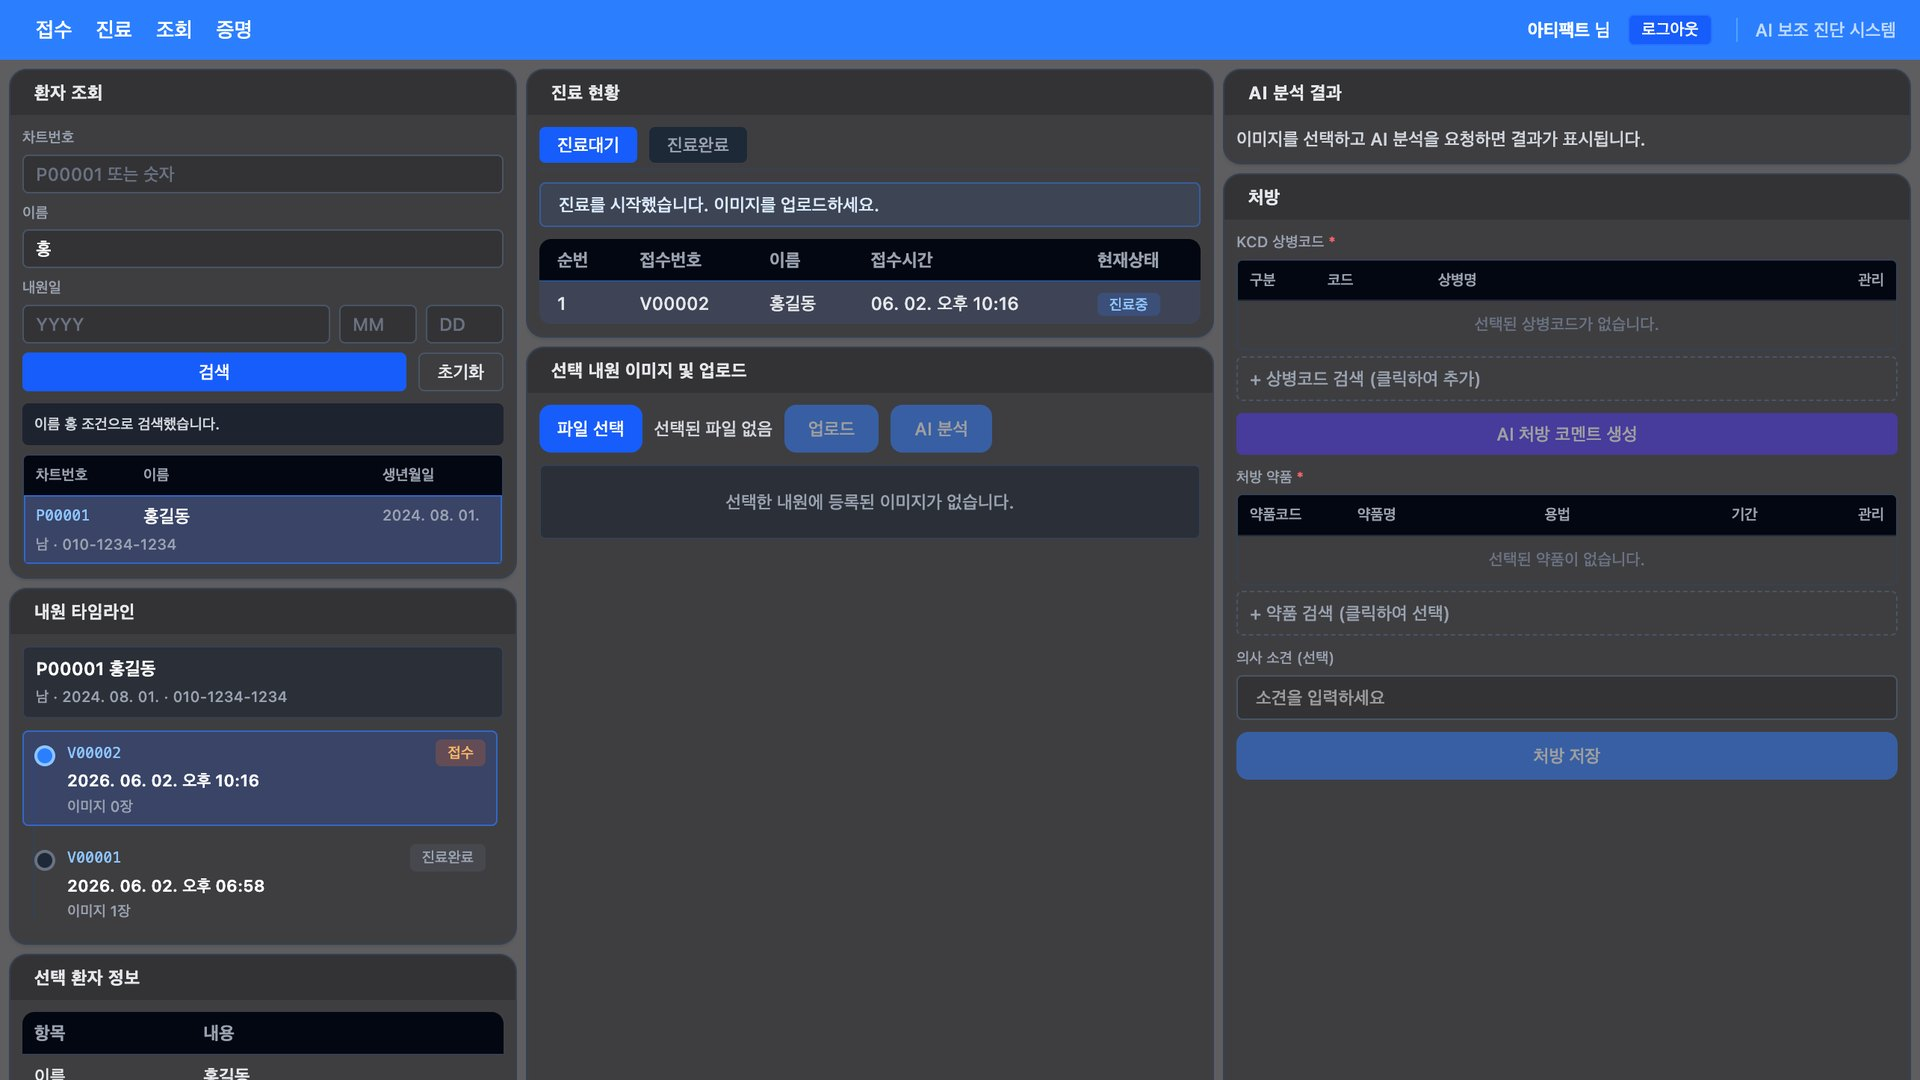
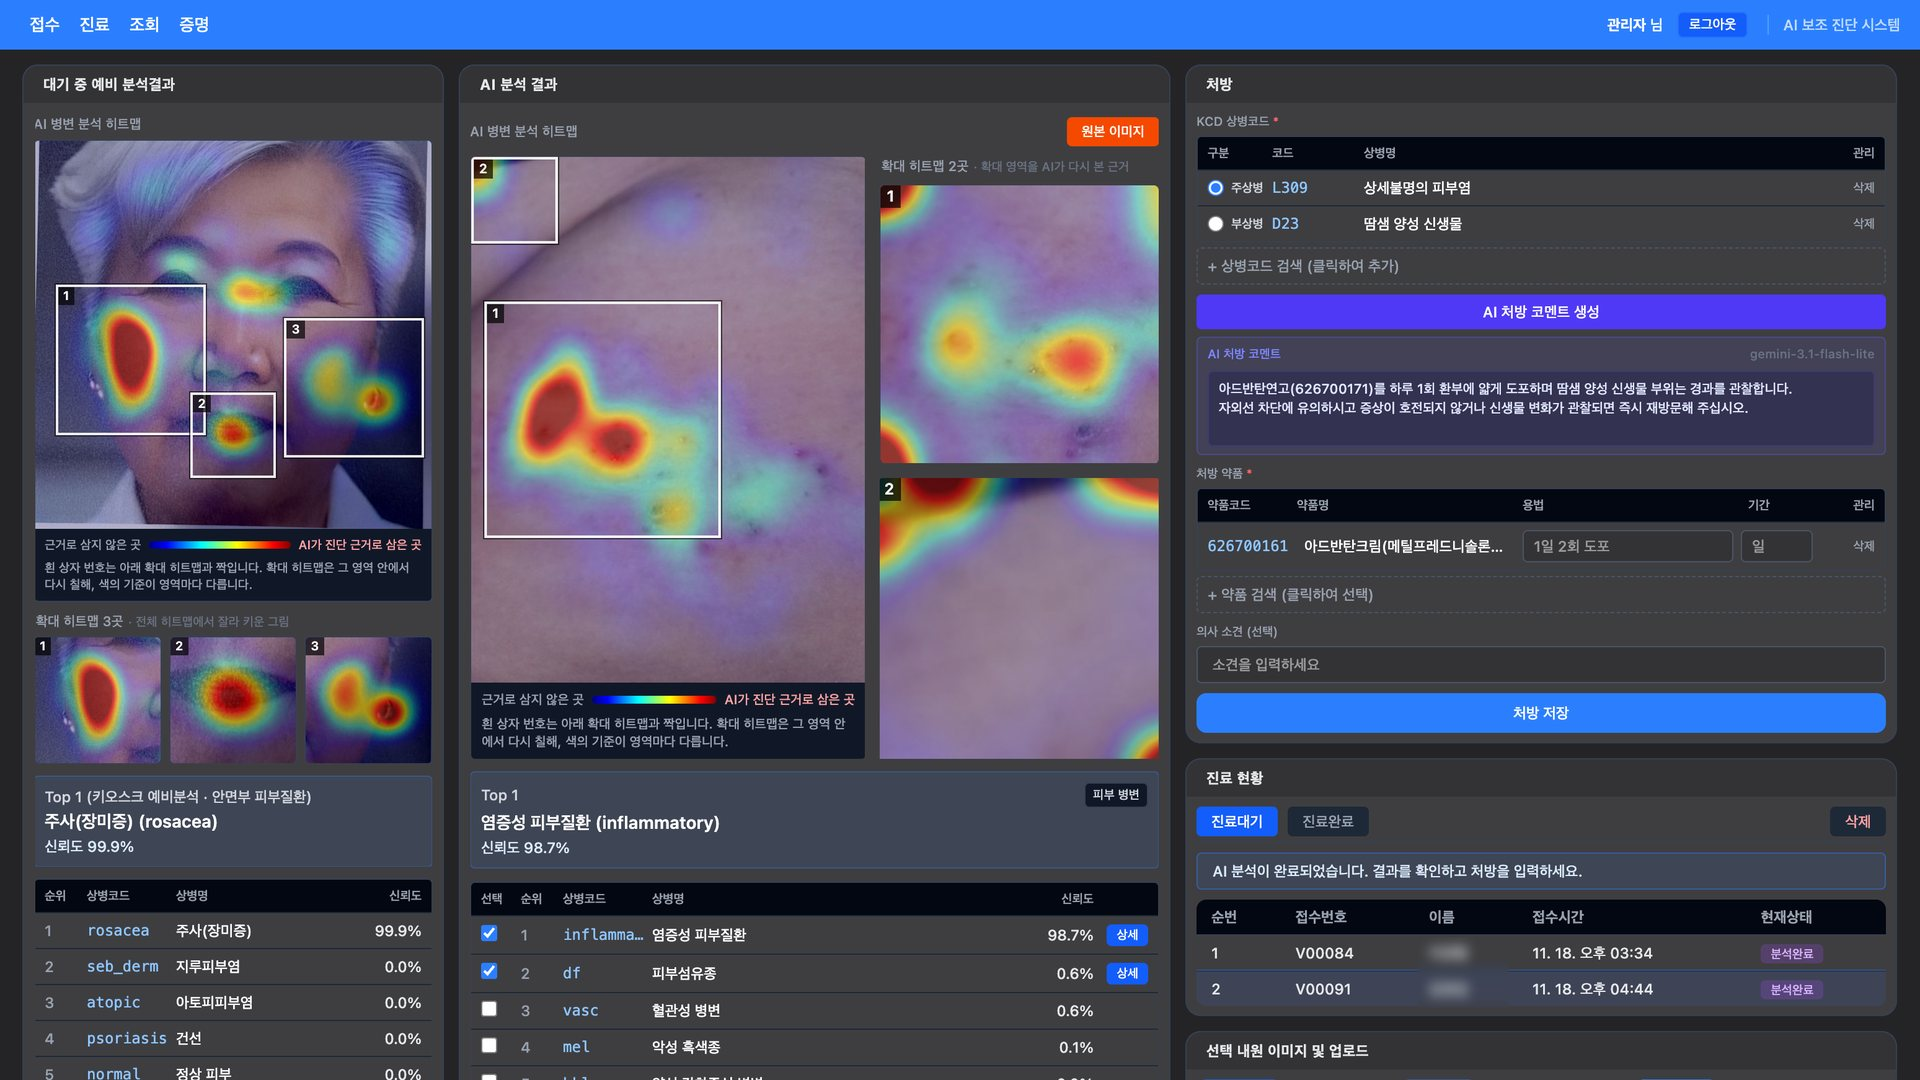
design(artifact): 히어로 배경을 히트맵이 보이는 최신 화면으로 교체
최신 대시보드 캡처를 패널 단위로 잘라 다시 배치했습니다.
- 키오스크 예비 분석 히트맵과 AI 병변 분석 히트맵을 상단에 배치
- 진료 현황의 환자 이름은 흐림 처리, 연락처·환자번호가 있는 패널은 제외
- alt 문구를 새 화면에 맞게 수정

diff --git a/work/artifact-medical-ai.html b/work/artifact-medical-ai.html
@@ -114,7 +114,7 @@
 <main id="main">
 
   <div class="detail-hero">
-    <img src="../assets/images/work/artifact-hero-16x9.jpg" alt="Artifact Medical AI 진료 화면" width="1920" height="1080" fetchpriority="high" decoding="async">
+    <img src="../assets/images/work/artifact-hero-16x9.jpg" alt="Artifact Medical AI 진료 화면: 키오스크 예비 분석과 AI 병변 분석 히트맵, 처방 패널" width="1920" height="1080" fetchpriority="high" decoding="async">
     <div class="detail-hero__copy">
       <p class="detail-hero__label">Spring Boot · FastAPI · MySQL</p>
       <h1 class="detail-hero__title">Artifact Medical AI</h1>
